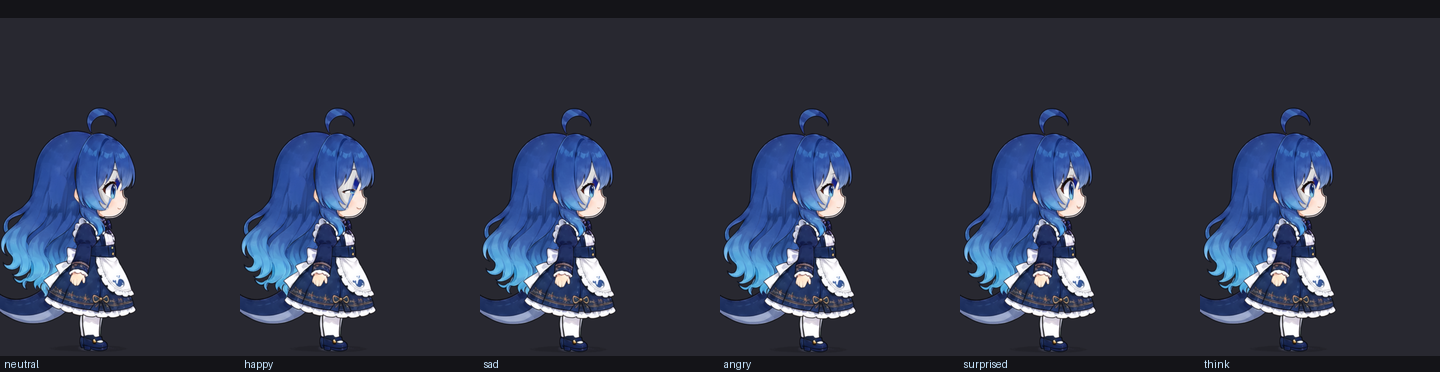
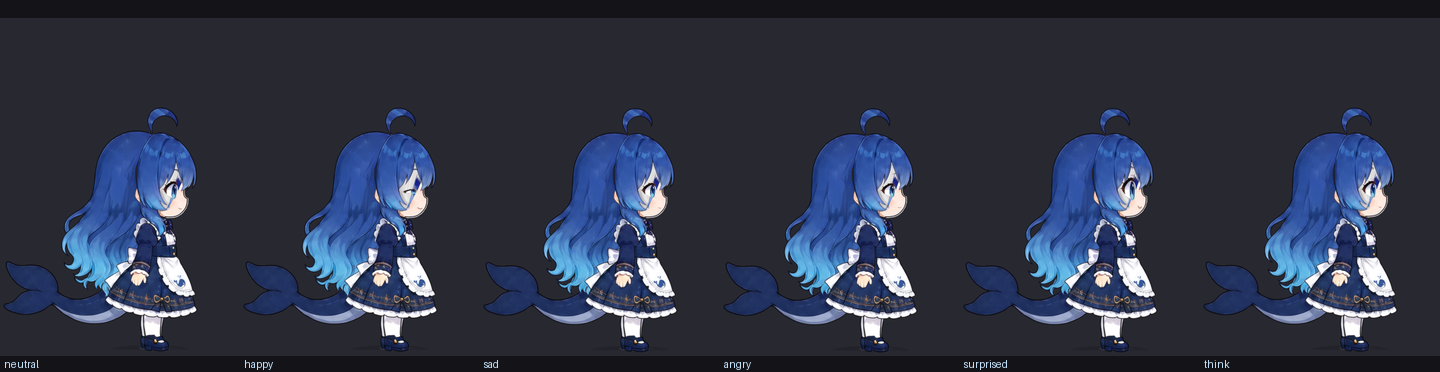
spike(side_rig): facing-aware walk limits, position reset per action, floor shadow cut from the tail layer

diff --git a/spikes/side_rig/rig.js b/spikes/side_rig/rig.js
@@ -310,11 +310,14 @@ function tick(dt) {
   const fn = A[S_.action] || A.idle;
   fn(S_.tau);
   // locomotion
-  if (S_.speed) {
+  if (S_.speed && !S_.turn) {
     S_.x += S_.facing * S_.speed * dt;
-    const lim = 0.62;
-    if (S_.x > lim) { S_.x = lim; S_.turn = { t0: S_.t, from: S_.facing }; }
-    if (S_.x < -lim) { S_.x = -lim; S_.turn = { t0: S_.t, from: S_.facing }; }
+    // she spans ~0.4 units ahead of the hips and ~0.8 behind (the tail); keep both inside the window
+    const halfW = VIEW_H * aspect / 2, ahead = 0.42, behind = 0.82;
+    const front = S_.facing < 0 ? -halfW + ahead : halfW - ahead;
+    const back = S_.facing < 0 ? halfW - behind : -halfW + behind;
+    if (S_.facing < 0 ? S_.x < front : S_.x > front) { S_.x = front; S_.turn = { t0: S_.t, from: S_.facing }; }
+    if (S_.facing < 0 ? S_.x > back : S_.x < back) S_.x = back;
   }
   if (S_.turn) {
     const u = (S_.t - S_.turn.t0) / 0.28;
@@ -344,7 +347,7 @@ const lab = window.lab = {
   info: () => ({ bones: boneList.length, layers: Object.keys(layerMeshes).filter((k) => !k.endsWith('#tex')).length, actions: ACTIONS, emotions: Object.keys(EMO) }),
   actions: () => ACTIONS,
   start(name) { if (!A[name]) throw new Error('unknown action ' + name); S_.action = name; S_.tau = 0; if (name === 'turn') S_.turn = null; return { name }; },
-  begin(name) { lab.start(name); S_.t = 0; S_.blink.next = 9; S_.blink.phase = 0; for (const b of boneList) { b.userData.spring = 0; b.userData.springVel = 0; } S_.prevPos.clear(); return { name }; },
+  begin(name) { lab.start(name); S_.t = 0; S_.x = -0.15; S_.facing = -1; group.scale.x = -1; S_.turn = null; S_.blink.next = 9; S_.blink.phase = 0; for (const b of boneList) { b.userData.spring = 0; b.userData.springVel = 0; } S_.prevPos.clear(); return { name }; },
   step(sec) { const n = Math.max(1, Math.round(sec * 60)); for (let i = 0; i < n; i++) tick(1 / 60); renderer.render(scene, camera); },
   stop() { S_.action = 'idle'; S_.tau = 0; },
   pause(v) { S_.paused = !!v; },
